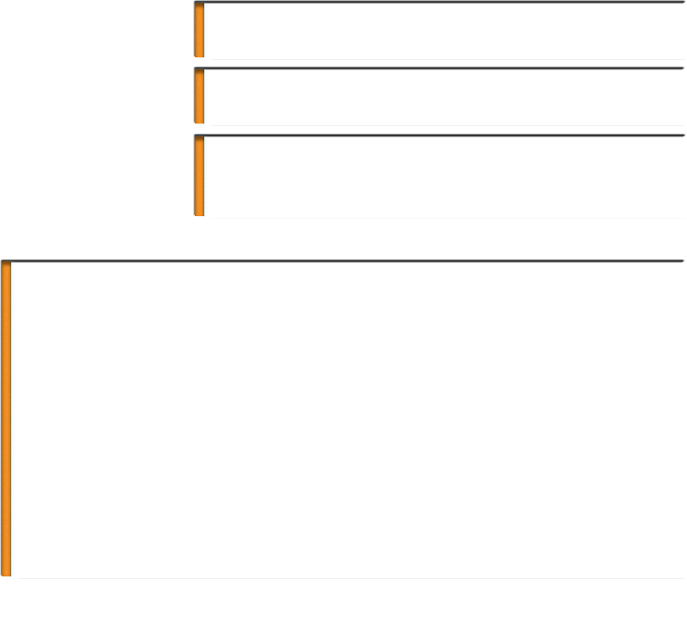
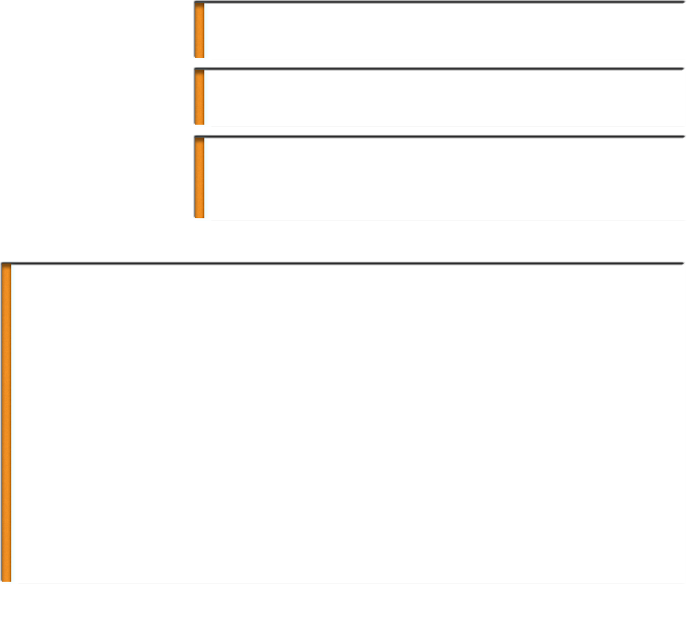
Changes to the view and background so information aligns correctly in the items table.

diff --git a/Convention/CIOrderViewController.m b/Convention/CIOrderViewController.m
@@ -124,6 +124,8 @@ bool showHud = true;
         homeBg.image = [UIImage imageNamed:@"FarrisBG.png"];
         orderDetailBg.image = [UIImage imageNamed:@"FarrisOrderDetail.png"];
         self.shipdates.hidden = YES;
+        self.SCtotal.hidden = YES;
+        self.grossTotal.hidden = YES;
     }else{//SG: PW
         homeBg.image = [UIImage imageNamed:@"homeBG.png"];
         orderDetailBg.image = [UIImage imageNamed:@"Detail2.png"];
